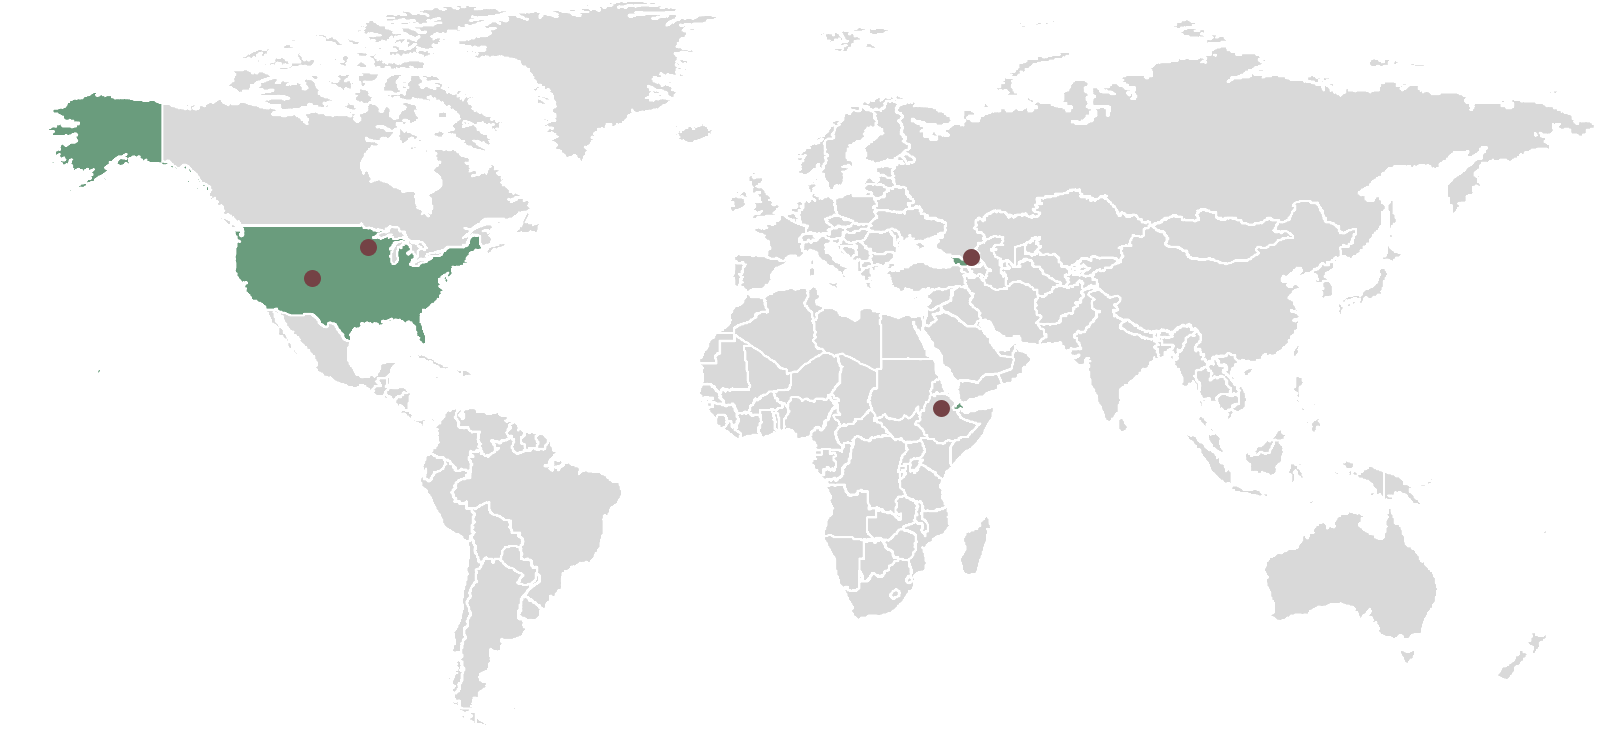
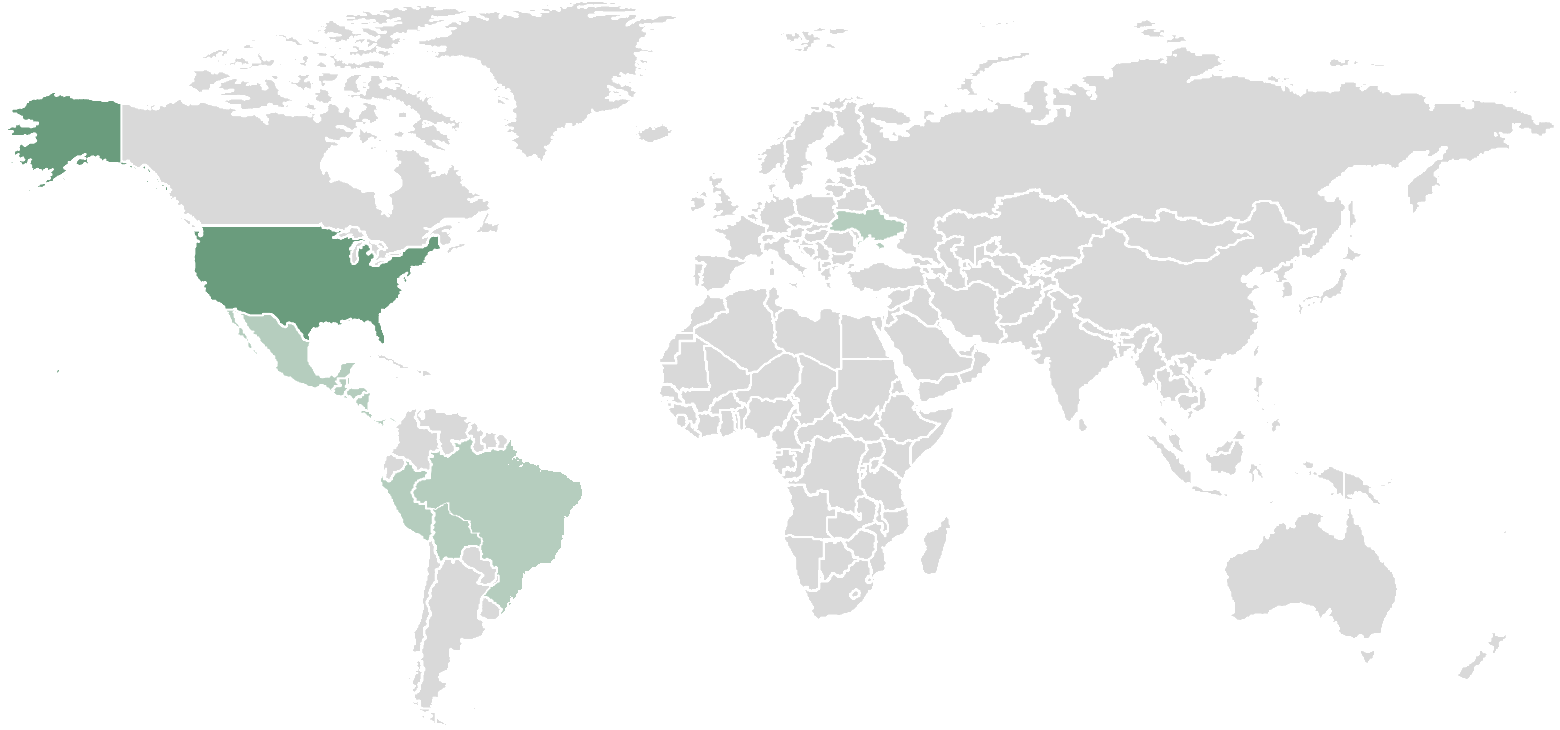
Add static map with pulsing location markers

diff --git a/_includes/static_map.html b/_includes/static_map.html
@@ -1,0 +1,70 @@
+<div class="map-bg my-5">
+    <a data-target="#locationModal1" data-toggle="modal" href="">
+        <span class="location" style="top: 29%; left: 18%"></span>
+    </a>
+    <a data-target="#locationModal2" data-toggle="modal" href="">
+        <span class="location" style="top: 65%; left: 32%"></span>
+    </a>
+    <a data-target="#locationModal3" data-toggle="modal" href="">
+        <span class="location" style="top: 29%; left: 52%"></span>
+    </a>
+
+    <!-- Modal -->
+    <div aria-hidden="true" aria-labelledby="locationModal1Title" class="modal fade" id="locationModal1" role="dialog" tabindex="-1">
+        <div class="modal-dialog modal-dialog-centered" role="document">
+            <div class="modal-content">
+                <div class="modal-header">
+                    <h5 class="modal-title" id="locationModal1Title">North America</h5>
+                    <button aria-label="Close" class="close" data-dismiss="modal" type="button">
+                        <span aria-hidden="true">&times;</span>
+                    </button>
+                </div>
+                <div class="modal-body">
+                    Text
+                </div>
+                <div class="modal-footer">
+                    <button class="btn btn-secondary" data-dismiss="modal" type="button">Close</button>
+                </div>
+            </div>
+        </div>
+    </div>
+
+    <!-- Modal -->
+    <div aria-hidden="true" aria-labelledby="locationModal2Title" class="modal fade" id="locationModal2" role="dialog" tabindex="-1">
+        <div class="modal-dialog modal-dialog-centered" role="document">
+            <div class="modal-content">
+                <div class="modal-header">
+                    <h5 class="modal-title" id="locationModal2Title">South America</h5>
+                    <button aria-label="Close" class="close" data-dismiss="modal" type="button">
+                        <span aria-hidden="true">&times;</span>
+                    </button>
+                </div>
+                <div class="modal-body">
+                    Text
+                </div>
+                <div class="modal-footer">
+                    <button class="btn btn-secondary" data-dismiss="modal" type="button">Close</button>
+                </div>
+            </div>
+        </div>
+    </div>
+
+    <div aria-hidden="true" aria-labelledby="locationModal3Title" class="modal fade" id="locationModal3" role="dialog" tabindex="-1">
+        <div class="modal-dialog modal-dialog-centered" role="document">
+            <div class="modal-content">
+                <div class="modal-header">
+                    <h5 class="modal-title" id="locationModal3Title">Eastern Europe</h5>
+                    <button aria-label="Close" class="close" data-dismiss="modal" type="button">
+                        <span aria-hidden="true">&times;</span>
+                    </button>
+                </div>
+                <div class="modal-body">
+                    Text
+                </div>
+                <div class="modal-footer">
+                    <button class="btn btn-secondary" data-dismiss="modal" type="button">Close</button>
+                </div>
+            </div>
+        </div>
+    </div>
+</div>

diff --git a/index.html b/index.html
@@ -12,7 +12,7 @@ title:
         <source src="{{'/assets/video/seeds.mp4'}}?{{cache_buster}}" type="video/mp4">
     </video>
     <div class="tagline">
-        <h1 class="text-white" style="font-size: 5rem;">{{general.headline}}</h1>
+        <h1 class="text-white headline">{{general.headline}}</h1>
     </div>
 </div>
 
@@ -50,15 +50,10 @@ title:
     <div class="container">
         <h2 class="text-center">{{port.heading}}</h2>
         <p class="mt-4">{{port.text}}</p>
-        {% include map.html %}
-    </div>
-</div>
 
+        {% include static_map.html %}
 
-<div class="section bg-light">
-    <a class="anchor" id="portfolio2"></a>
-    <div class="container">
-        <img alt="AgroFundOne Portfolio Locations" class="img-fluid" src="/assets/img/map.png">
+        <!-- portfolio cards -->
         <div class="card-deck mt-5">
             {% for i in port.items %}
                 {% assign remainder = forloop.index |modulo: 3 %}
@@ -75,11 +70,9 @@ title:
                 </div>
                 {% if remainder == 0 %}
                 </div>
-                <div class="card-deck mt-5">
+                <div class="card-deck mt-4">
                 {% endif %}
-
                 {% if forloop.last == true %}
-
                     {% case remainder %}
                         {% when 1 %}
                             <div class="card placeholder-card"></div>
@@ -89,7 +82,6 @@ title:
                     {% endcase %}
 
                 {% endif %}
-
             {% endfor %}
         </div>
 

diff --git a/assets/css/main.scss b/assets/css/main.scss
@@ -204,6 +204,13 @@ background-color: #fff;
     transform: translate(-50%,-50%);
     text-align: center;
     text-shadow: 4px 4px 8px black;
+
+    h1 {
+      font-size: 5rem;
+      @media (max-width: 820px) {
+        font-size: 3rem;
+      }
+    }
   }
 }
 
@@ -235,13 +242,49 @@ background-color: #fff;
 .card-a {
   box-shadow: 0 6px 18px 0 rgba(86, 91, 115, .15) !important;
   transition: box-shadow .2s;
-
   &:hover {
     box-shadow: 10px 18px 40px 0 rgba(86, 91, 115, .15) !important;
   }
-
 }
 
+.map-bg {
+  background-image: url('/assets/img/map.png');
+  background-size: contain;
+  background-repeat: no-repeat;
+  width: 100%;
+  height: 0;
+  padding-top: 46.79%;
+  position: relative;
+}
+
+.location {
+  position: absolute;
+  background: $primary-color;
+	border-radius: 50%;
+	margin: 10px;
+	height: 20px;
+	width: 20px;
+	box-shadow: 0 0 0 0 $primary-color;
+	transform: scale(1);
+	animation: pulse 2s infinite;
+}
+
+@keyframes pulse {
+	0% {
+		transform: scale(0.95);
+		box-shadow: 0 0 0 0 rgba(0, 0, 0, 0.7);
+	}
+
+	70% {
+		transform: scale(1);
+		box-shadow: 0 0 0 10px rgba(0, 0, 0, 0);
+	}
+
+	100% {
+		transform: scale(0.95);
+		box-shadow: 0 0 0 0 rgba(0, 0, 0, 0);
+	}
+}
 /* team styles */
 
 .img-team {
